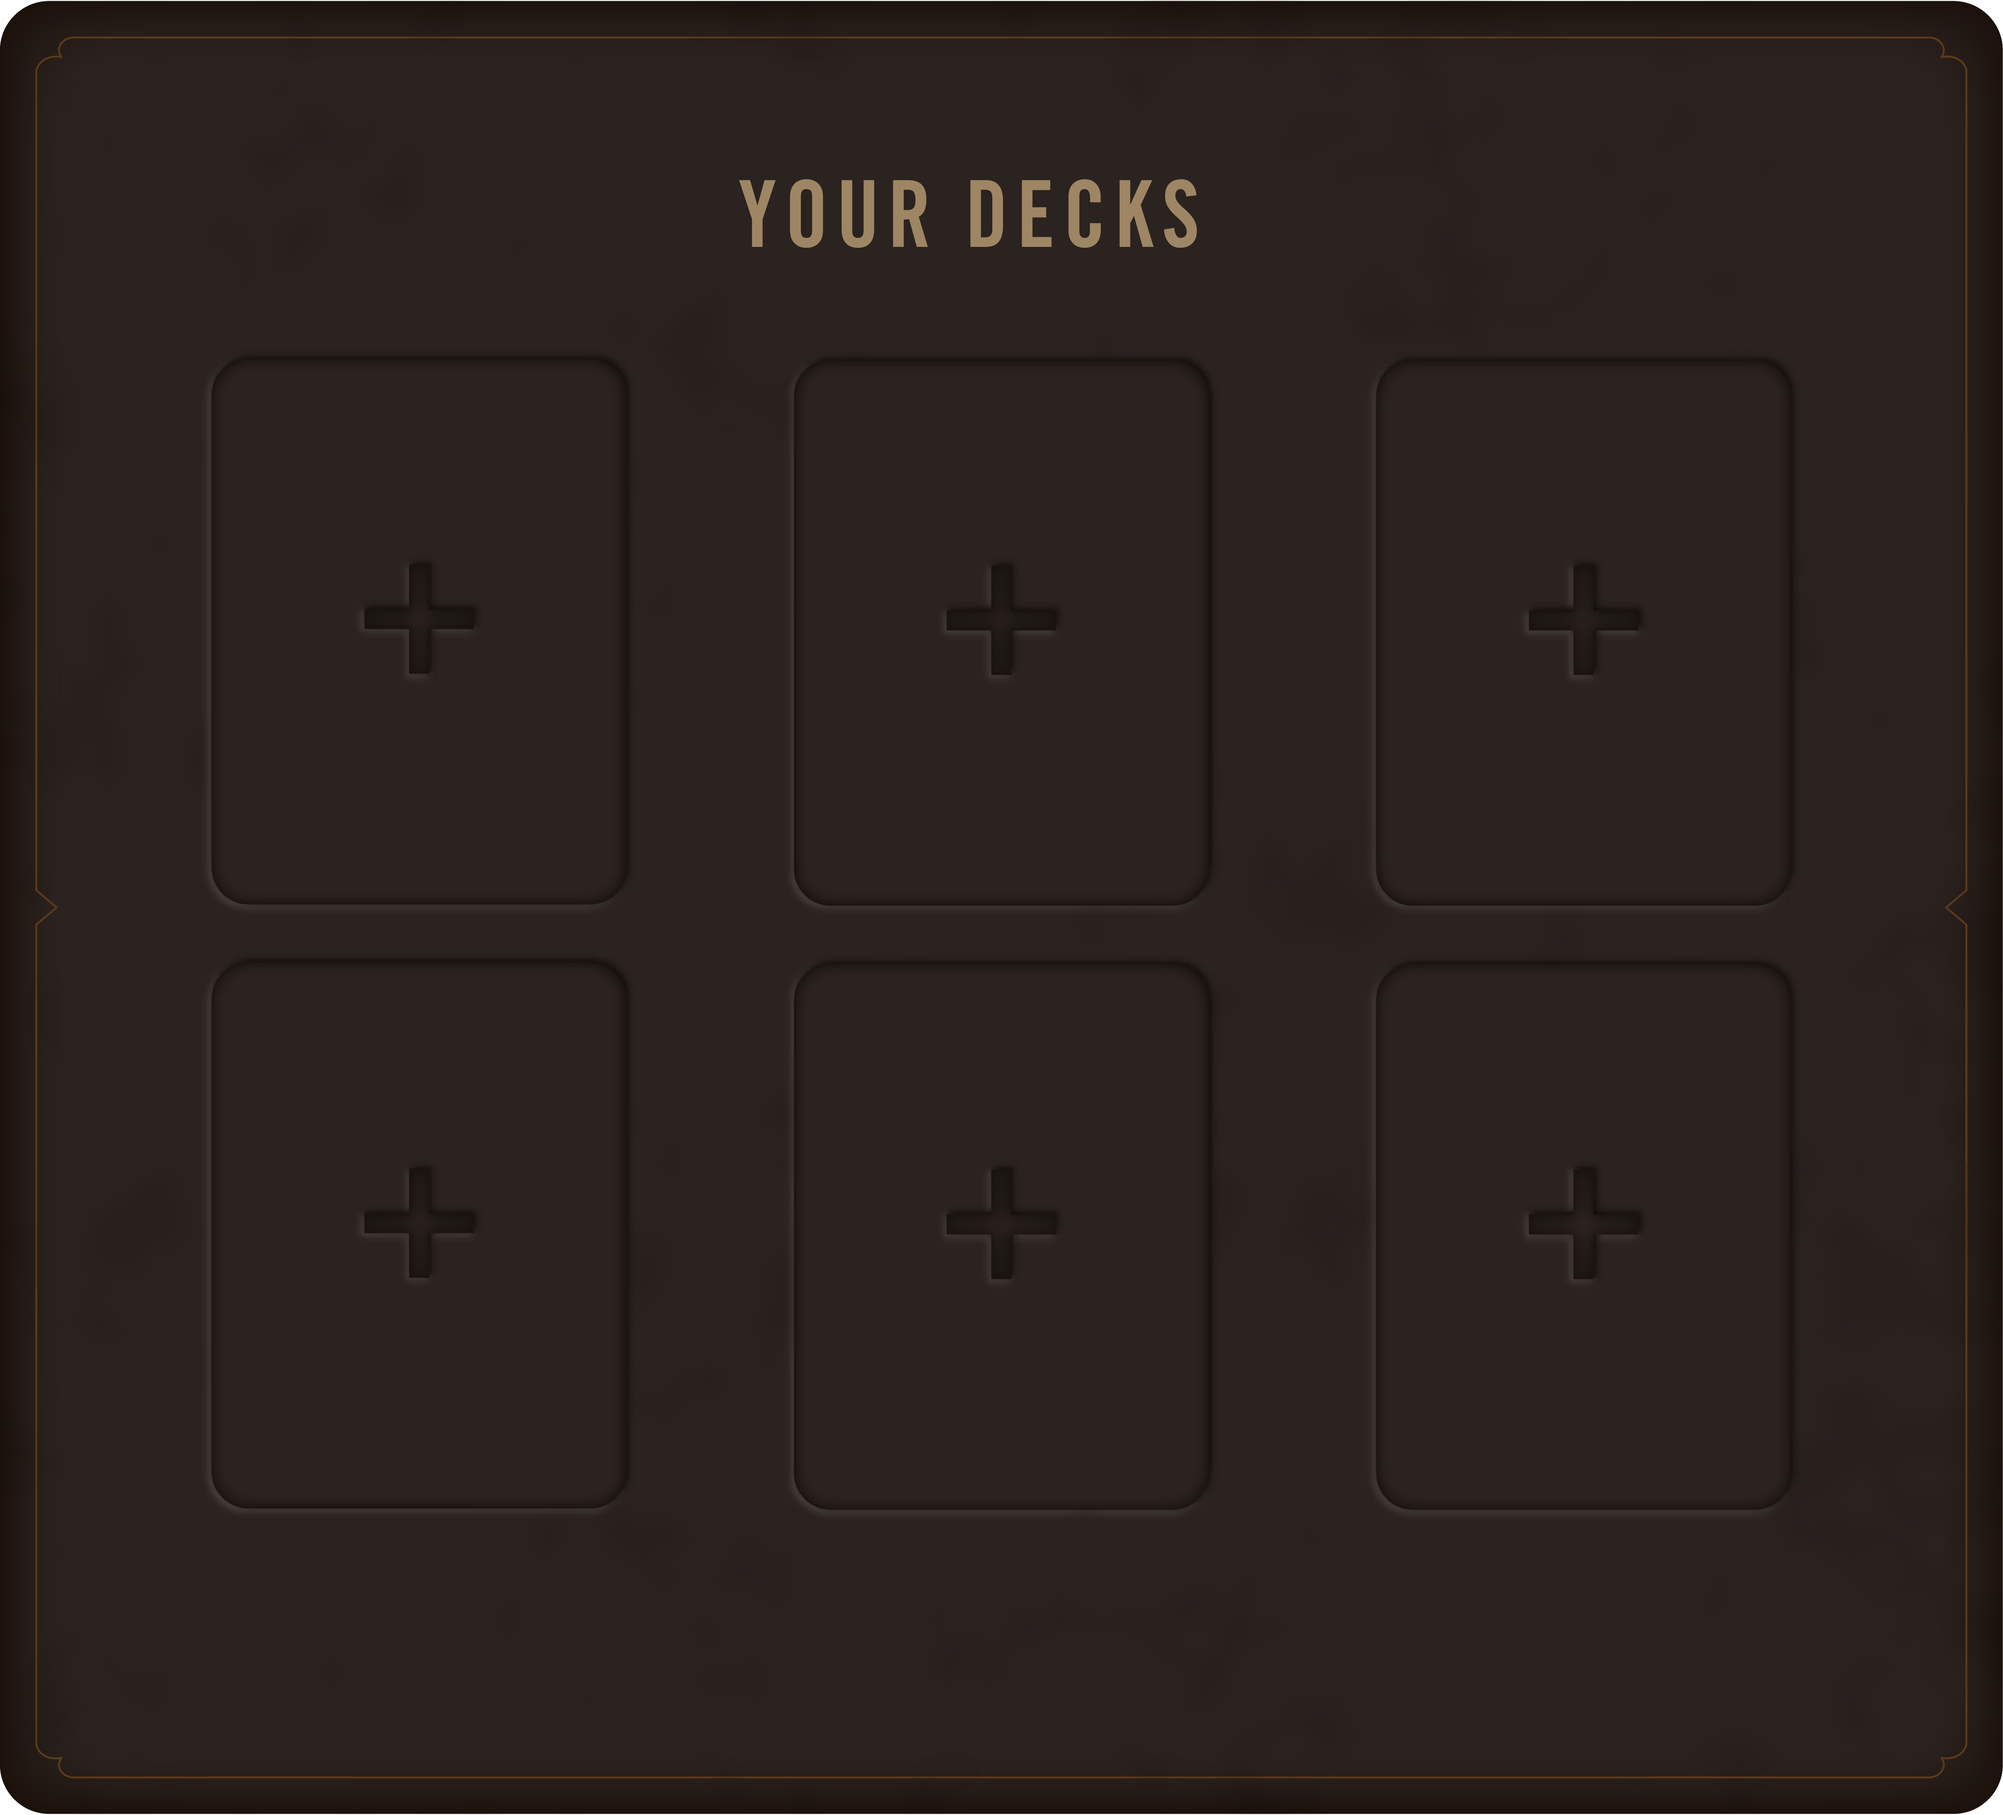
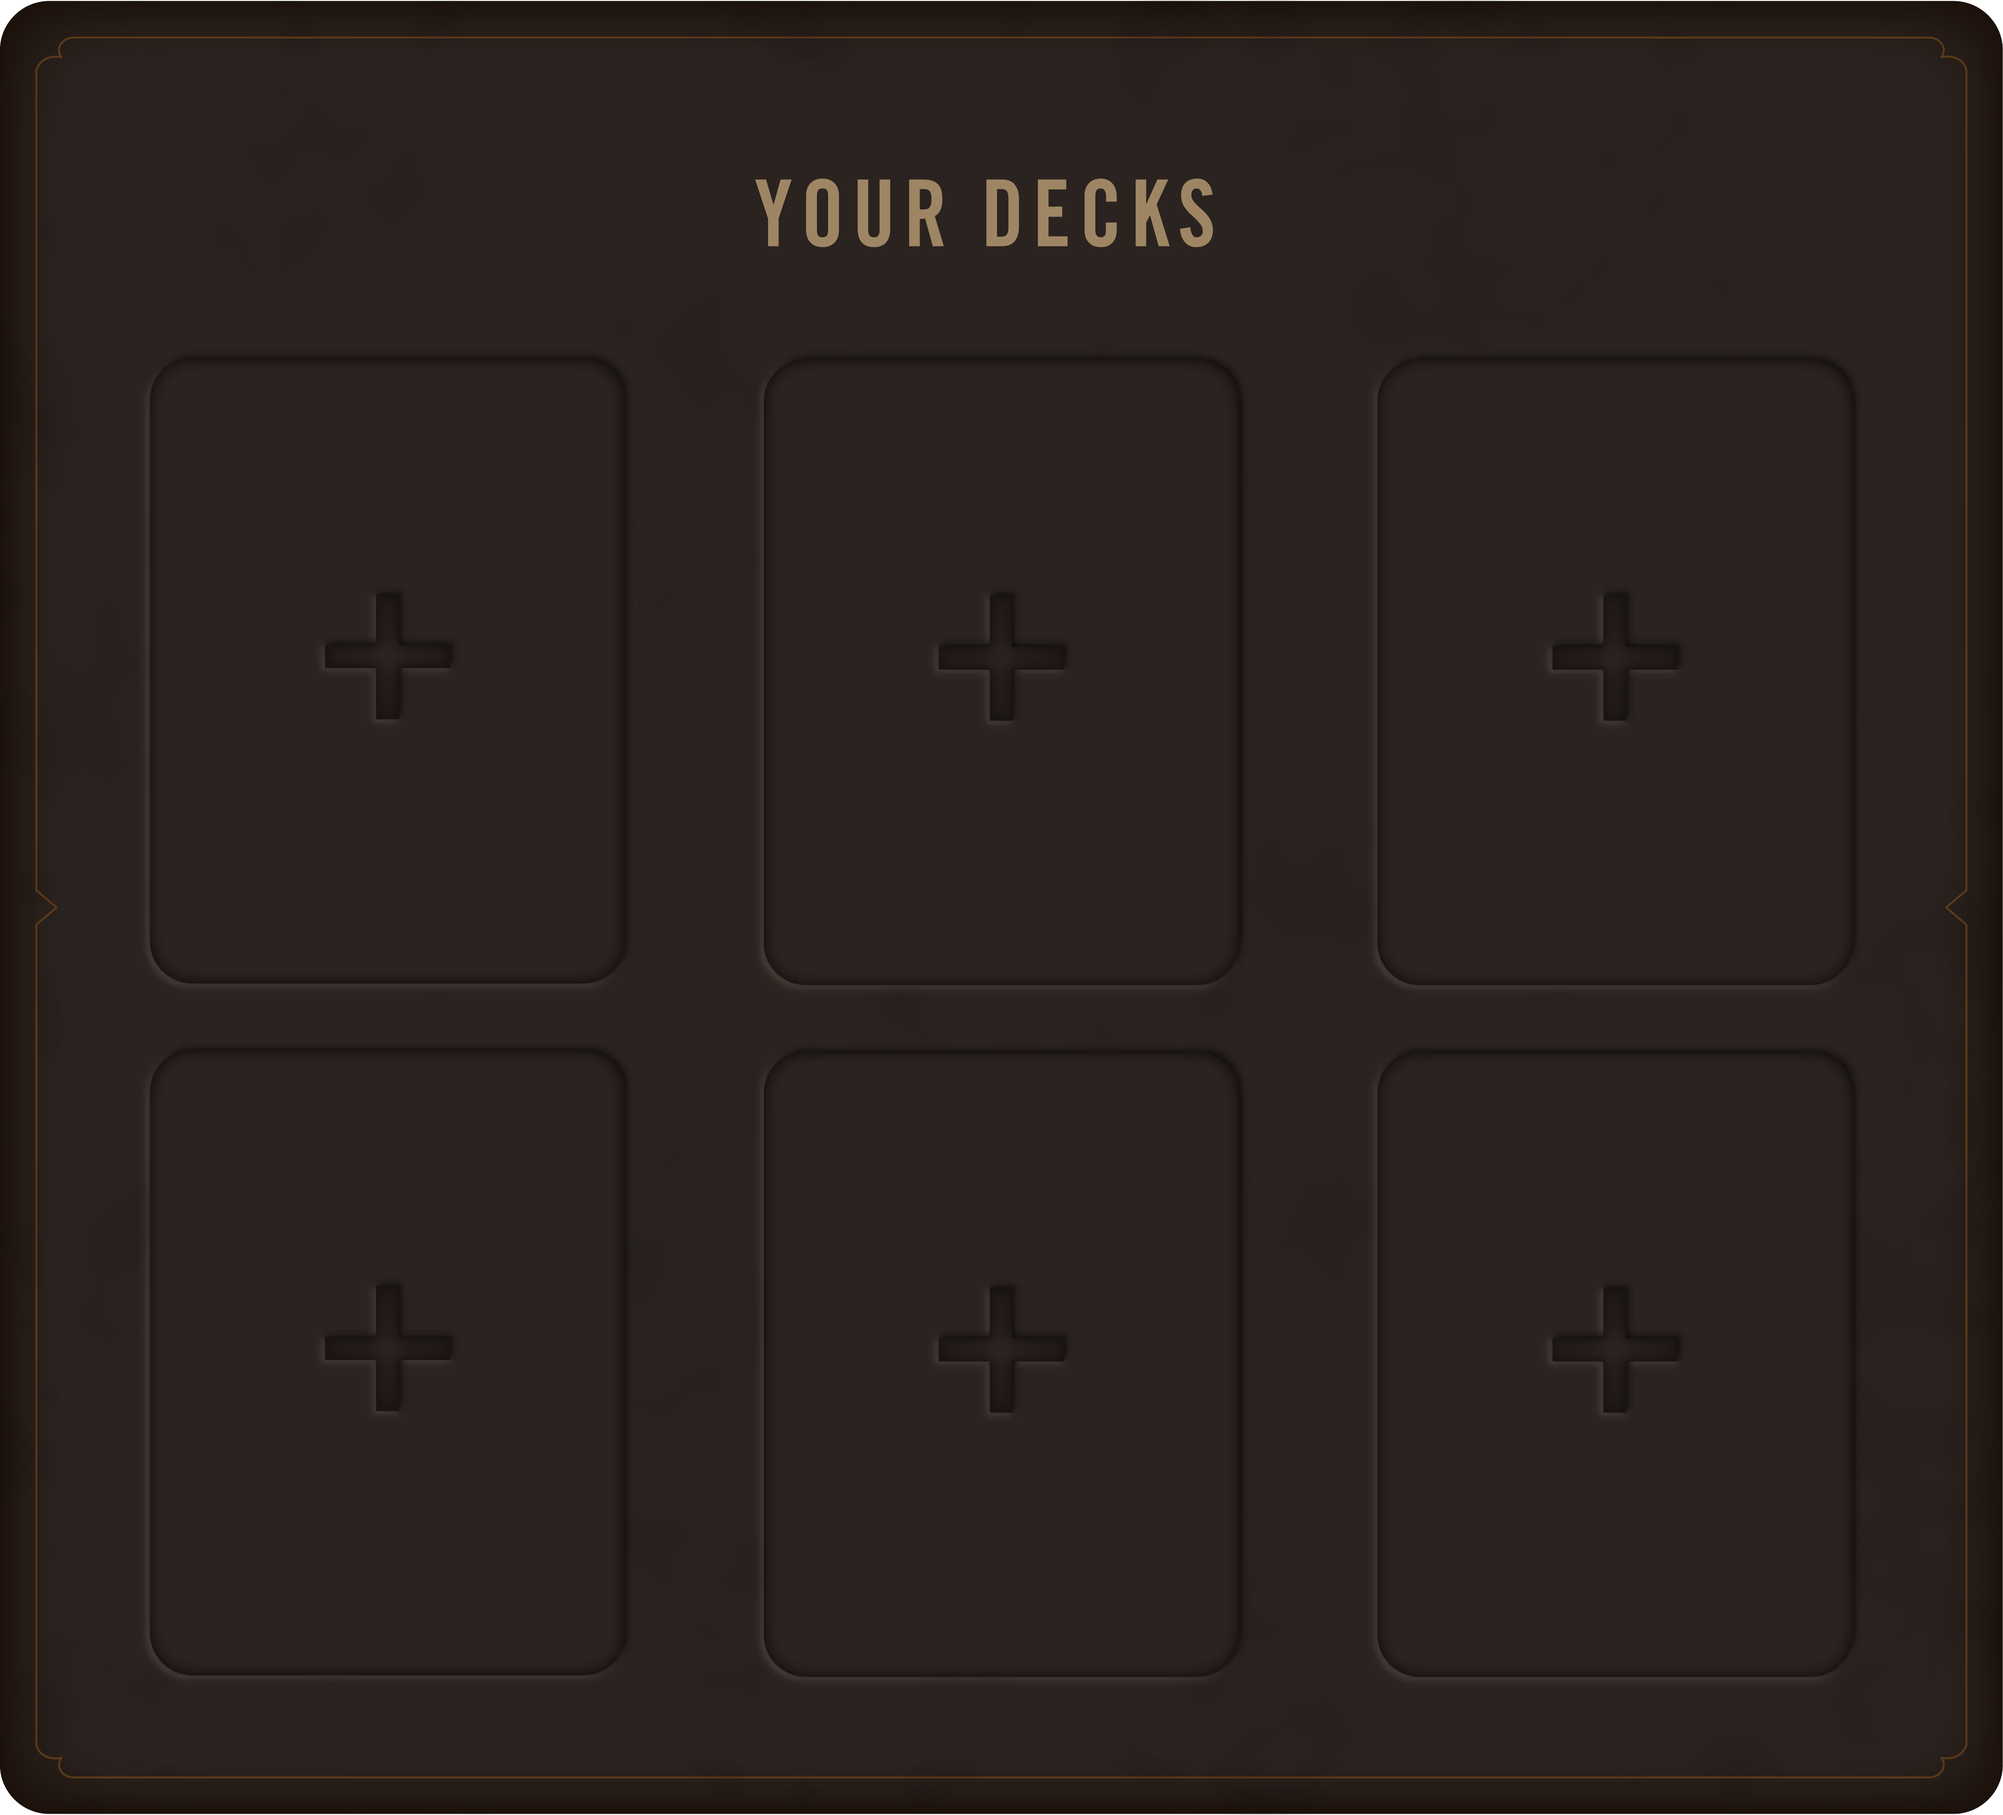
Added Selected Deck to Play Navigation, Updated DeckLists page

Changed region(s): [[0.3748, 0.0936, 0.6246, 0.156]]

diff --git a/Apps/ADHD/Assets/Scripts/Client/Navigation/PlayDeckManager.cs b/Apps/ADHD/Assets/Scripts/Client/Navigation/PlayDeckManager.cs
@@ -1,0 +1,33 @@
+using System.Collections;
+using System.Collections.Generic;
+using UnityEngine;
+
+public class PlayDeckManager : MonoBehaviour
+{
+    [SerializeField] private Transform DeckSlot;
+    [SerializeField] private GameObject DeckPrefab;
+
+    private void Start()
+    {
+        UpdateSelectedDeck();
+    }
+
+    private void UpdateSelectedDeck()
+    {
+        PlayerData playerData = AccountManager.Singleton.GetPlayerData();
+        List<DeckData> deckLists = playerData.DeckCollection;
+
+        int deckId = playerData.SelectedDeckId > deckLists.Count ? 0 : playerData.SelectedDeckId;
+
+        DeckData deck = deckLists[deckId];
+
+        foreach (Transform child in DeckSlot)
+        {
+            Destroy(child.gameObject);
+        }
+
+        var deckInstance = Instantiate(DeckPrefab, DeckSlot);
+        var deckUI = deckInstance.GetComponent<DeckUI>();
+        deckUI.SetDeckData(deck);
+    }
+}

diff --git a/Apps/ADHD/Assets/Scripts/Client/Collection/DeckListsManager.cs b/Apps/ADHD/Assets/Scripts/Client/Collection/DeckListsManager.cs
@@ -55,4 +55,14 @@ public class DeckListsManager : MonoBehaviour
     {
         //Go To EditDeck Scene (send selected deck data)
     }
+
+    public void OnDeleteClick()
+    {
+        //
+    }
+
+    public void OnCustomizeClick()
+    {
+        //
+    }
 }
